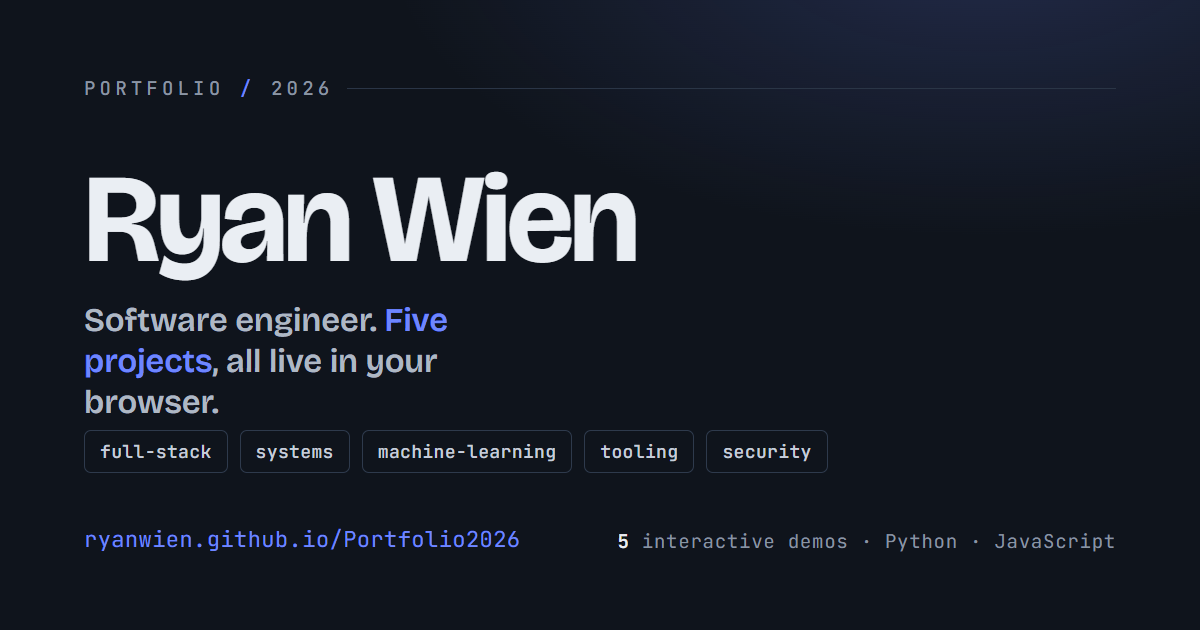
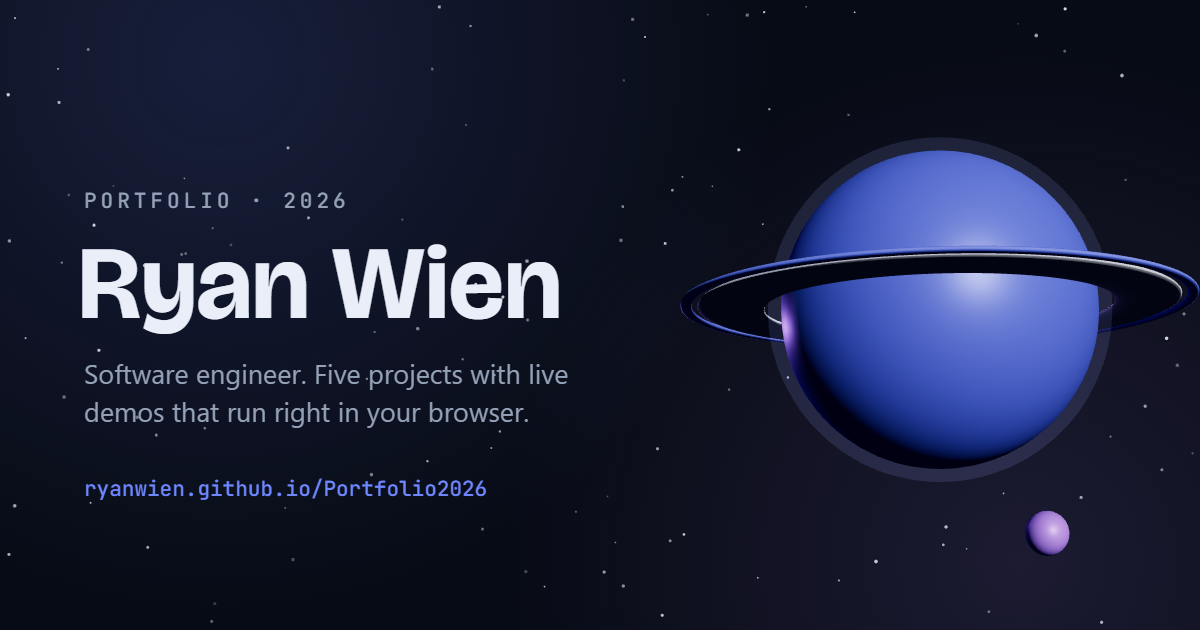
Refresh the share card and add a 404 page
The og-image still showed the old pre-space design, so every pasted
link advertised a site that no longer exists. The new card is composed
from the real thing: site fonts, palette, and a one-frame render of
the three.js hero planet. The 404 page puts the guardian satellite on
a signal-lost screen with a route back home; absolute paths throughout,
since a 404 can fire at any URL depth.

diff --git a/404.html b/404.html
@@ -1,0 +1,73 @@
+<!DOCTYPE html>
+<html lang="en">
+<head>
+<meta charset="UTF-8" />
+<meta name="viewport" content="width=device-width, initial-scale=1.0" />
+<title>404 · Ryan Wien</title>
+<meta name="robots" content="noindex" />
+<link rel="icon" href="/Portfolio2026/assets/favicon.svg" type="image/svg+xml" />
+<link rel="preconnect" href="https://fonts.googleapis.com" />
+<link rel="preconnect" href="https://fonts.gstatic.com" crossorigin />
+<link href="https://fonts.googleapis.com/css2?family=Bricolage+Grotesque:opsz,wght@12..96,600;12..96,700&family=JetBrains+Mono:wght@400;500;600&display=swap" rel="stylesheet" />
+<link rel="stylesheet" href="/Portfolio2026/assets/site.css" />
+<script src="/Portfolio2026/assets/space.js" defer></script>
+<script type="module" src="/Portfolio2026/assets/space3d.js"></script>
+<style>
+  :root{
+    --site-w:820px;
+    --bg:#070B15; --surface:#0E1524; --ink:#E9EEF8; --muted:#94A1B7;
+    --line:#1D2839; --line-strong:#2B3A52; --accent:#6E86FF; --accent-ink:#070B15;
+    --mono:'JetBrains Mono',ui-monospace,SFMono-Regular,Menlo,monospace;
+    --display:'Bricolage Grotesque',system-ui,-apple-system,sans-serif;
+    --body:system-ui,-apple-system,'Segoe UI',Roboto,sans-serif;
+  }
+  *{box-sizing:border-box;margin:0;padding:0}
+  /* body stays unpainted so the site.css starfield shows through */
+  body{font-family:var(--body); color:var(--ink); line-height:1.5;
+    -webkit-font-smoothing:antialiased}
+  .wrap{max-width:var(--site-w); margin:0 auto;
+    padding:clamp(2rem,8vh,5rem) var(--site-pad) 2rem;
+    display:grid; grid-template-columns:1fr auto; gap:1rem 2.5rem; align-items:center}
+  @media (max-width:640px){
+    .wrap{grid-template-columns:1fr; justify-items:center; text-align:center}
+  }
+  .code{font-family:var(--mono); font-size:.78rem; font-weight:500; letter-spacing:.14em;
+    text-transform:uppercase; color:var(--muted)}
+  h1{font-family:var(--display); font-weight:700; line-height:1;
+    font-size:clamp(4rem,16vw,7.5rem); letter-spacing:-.03em; margin:.3rem 0 .6rem}
+  .why{color:var(--muted); font-size:clamp(1rem,2.6vw,1.12rem); max-width:26em}
+  .back{display:inline-block; margin-top:1.6rem;
+    font-family:var(--mono); font-size:.8rem; font-weight:600; letter-spacing:.02em;
+    text-decoration:none; padding:.6rem 1.3rem; border-radius:999px;
+    background:var(--accent); color:var(--accent-ink); border:1px solid var(--accent);
+    transition:transform .22s cubic-bezier(.25,.1,.25,1), box-shadow .22s ease}
+  .back:hover{transform:translateY(-2px);
+    box-shadow:0 10px 28px -10px var(--accent)}
+  .back:focus-visible{outline:2px solid var(--accent); outline-offset:3px}
+</style>
+</head>
+<body>
+  <nav class="site-nav" aria-label="Site">
+    <div class="site-nav-inner">
+      <a class="site-brand" href="/Portfolio2026/"><span class="site-mark">RW</span><span>Ryan Wien</span></a>
+      <div class="site-links">
+        <a class="site-link" href="/Portfolio2026/task-tracker/demo.html">Tasks</a>
+        <a class="site-link" href="/Portfolio2026/matching-engine/orderbook_terminal.html">Order Book</a>
+        <a class="site-link" href="/Portfolio2026/ml-housing/demo.html">ML</a>
+        <a class="site-link" href="/Portfolio2026/file-organizer/demo.html">Files</a>
+        <a class="site-link" href="/Portfolio2026/security-log-analyzer/demo.html">Security</a>
+      </div>
+    </div>
+  </nav>
+
+  <main class="wrap">
+    <div>
+      <div class="code">Signal lost</div>
+      <h1>404</h1>
+      <p class="why">This page isn't on the flight plan. The link is either old, mistyped, or drifted somewhere I can't track.</p>
+      <a class="back" href="/Portfolio2026/">Return to base ↩</a>
+    </div>
+    <div class="site-model site-model-hero" data-emblem="satellite" role="img" aria-label="Stylized 3D guardian satellite, searching"></div>
+  </main>
+</body>
+</html>
